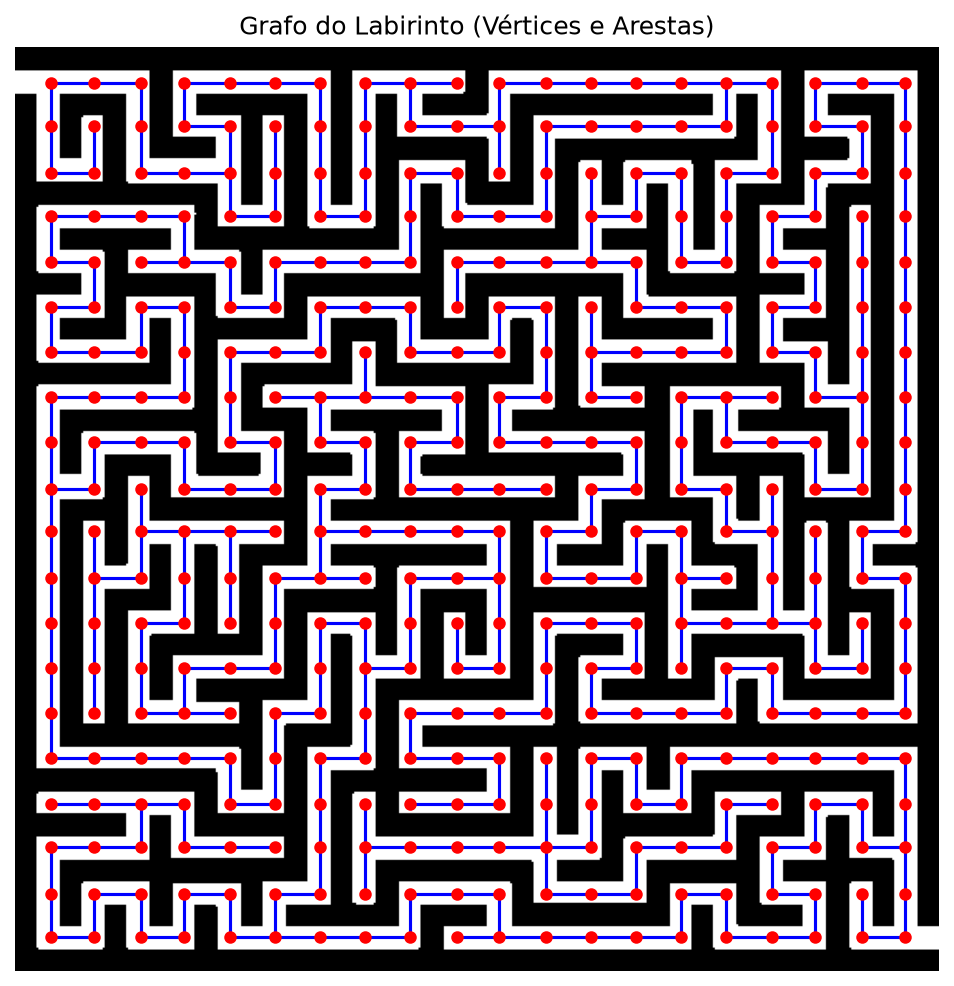
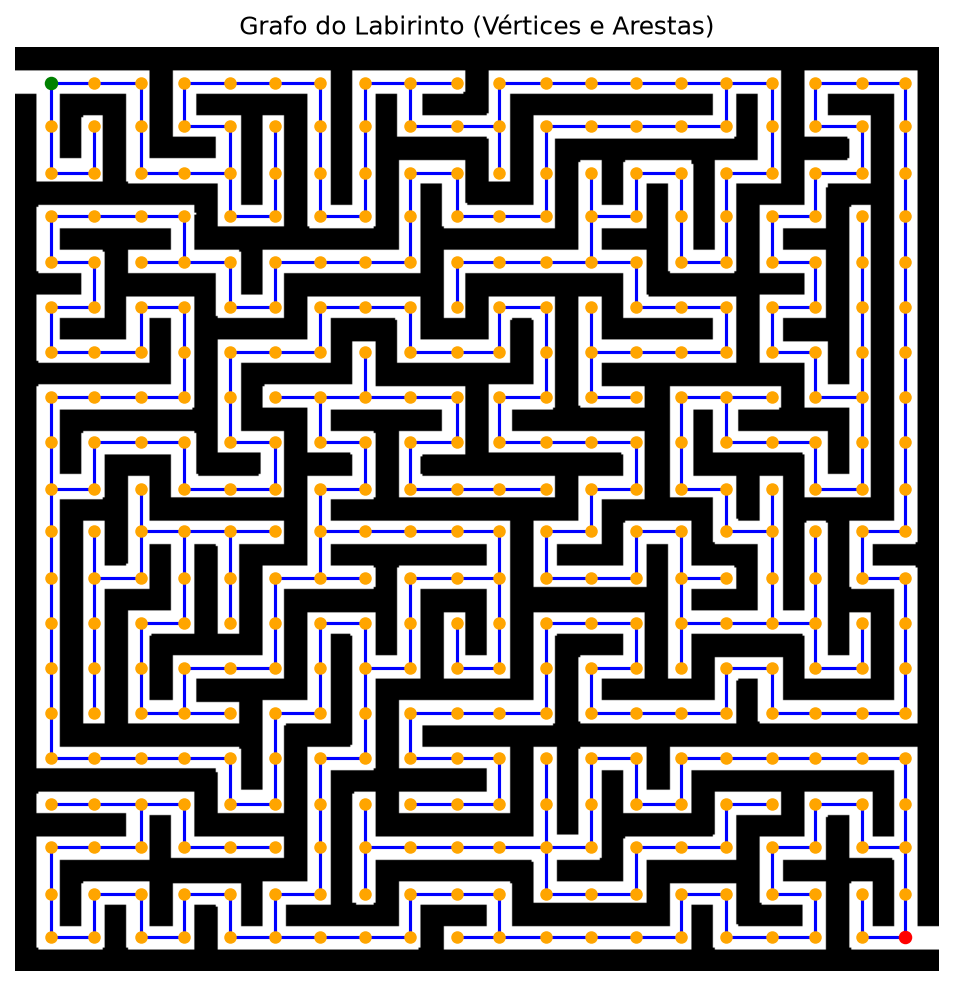
Diferencia o ponto inicial do ponto final no labirinto

diff --git a/shortest_path/image_to_graph.py b/shortest_path/image_to_graph.py
@@ -115,7 +115,7 @@ def criando_grafo(hor, ver):
 
     return grafo, vertices, arestas  
 
-M = carregar_labirinto("labirinto.png")
+M = carregar_labirinto("../img/labirinto.png")
 
 celulas = cria_celulas(20, M) 
 hor = verifica_vizinhos_horizontal(celulas, M)
@@ -141,7 +141,9 @@ for u in grafo:
 x_coords = [celulas[v]["centro"][0] for v in celulas]
 y_coords = [celulas[v]["centro"][1] for v in celulas]
 
-plt.scatter(x_coords, y_coords, c='red', s=25, zorder=2)
+plt.scatter(x_coords[1:-1], y_coords[1:-1], c='orange', s=25, zorder=2)
+plt.scatter(x_coords[0], y_coords[0], c='green', s=30, zorder=2)
+plt.scatter(x_coords[-1], y_coords[-1], c='red', s=30, zorder=2)
 
 # Salva a imagem em 'img' 
 os.makedirs('../img', exist_ok=True)
